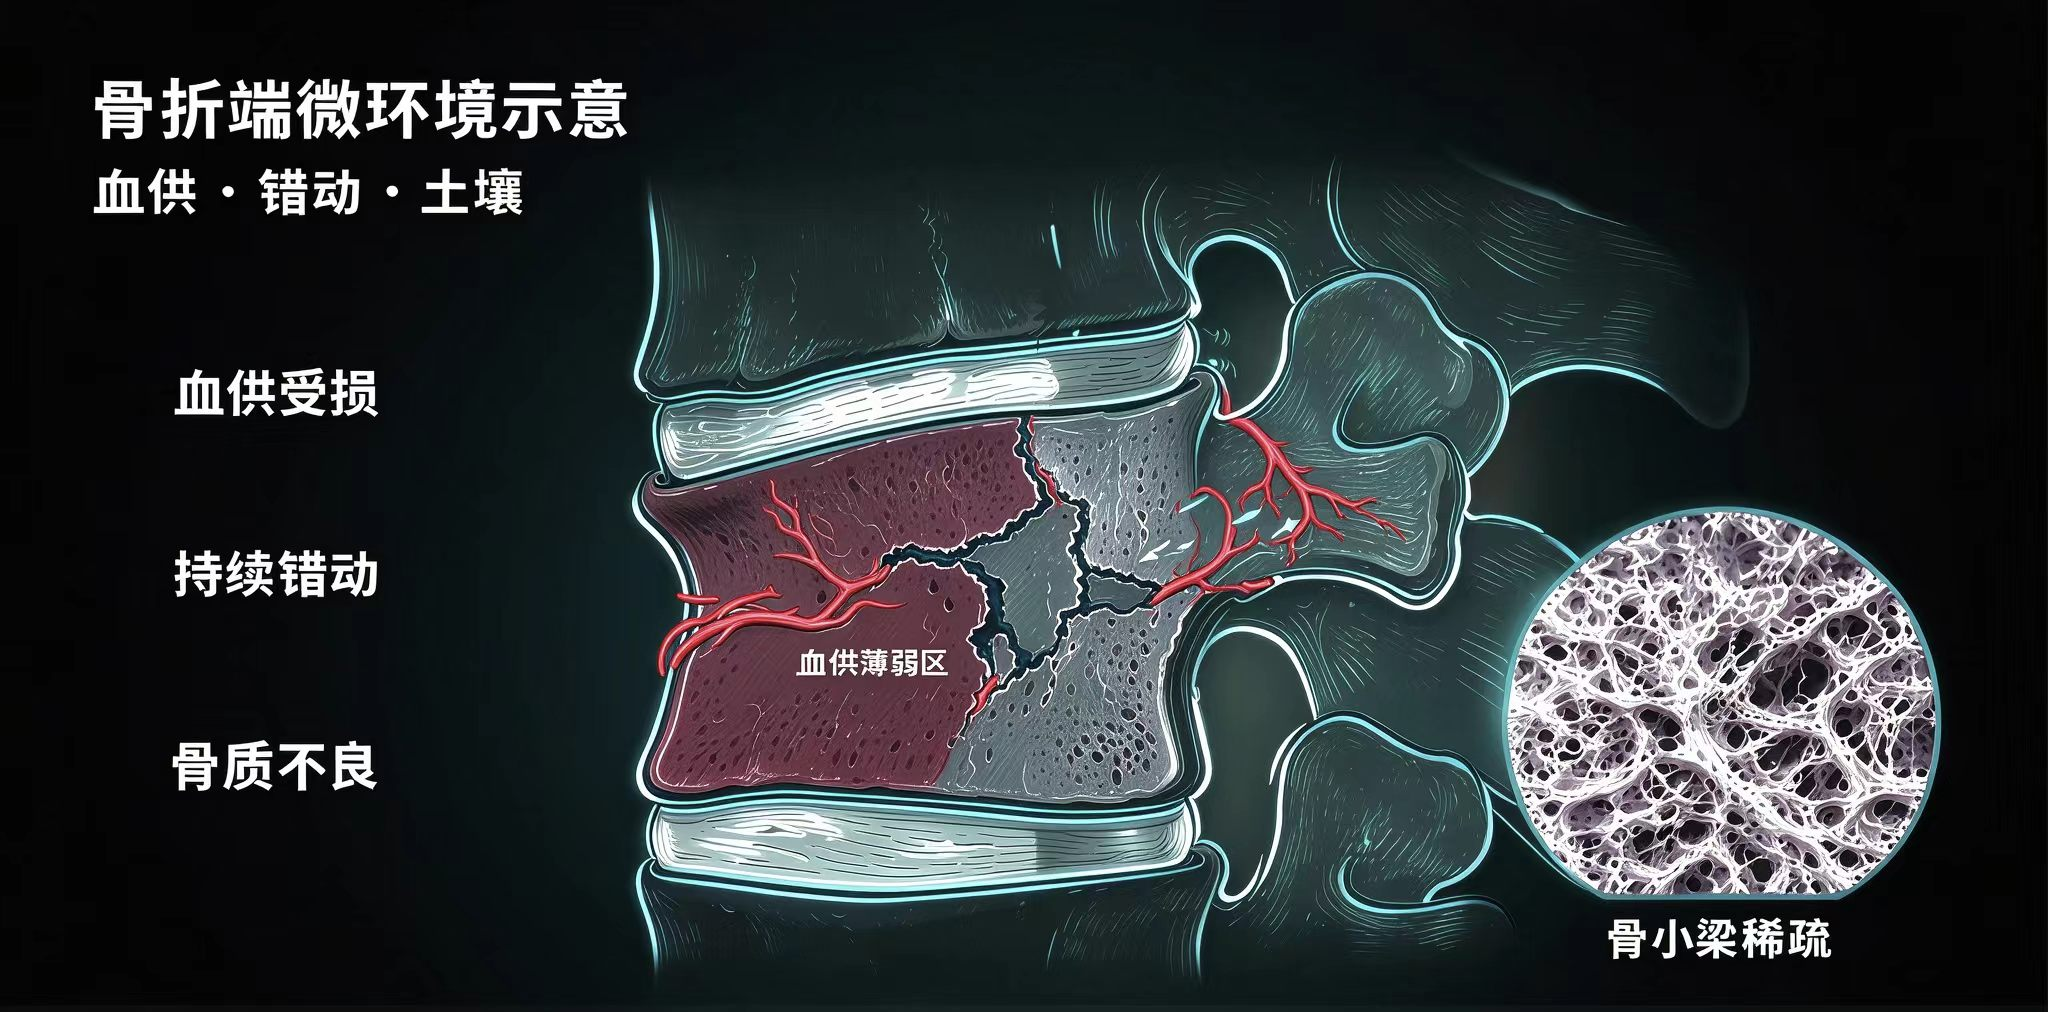
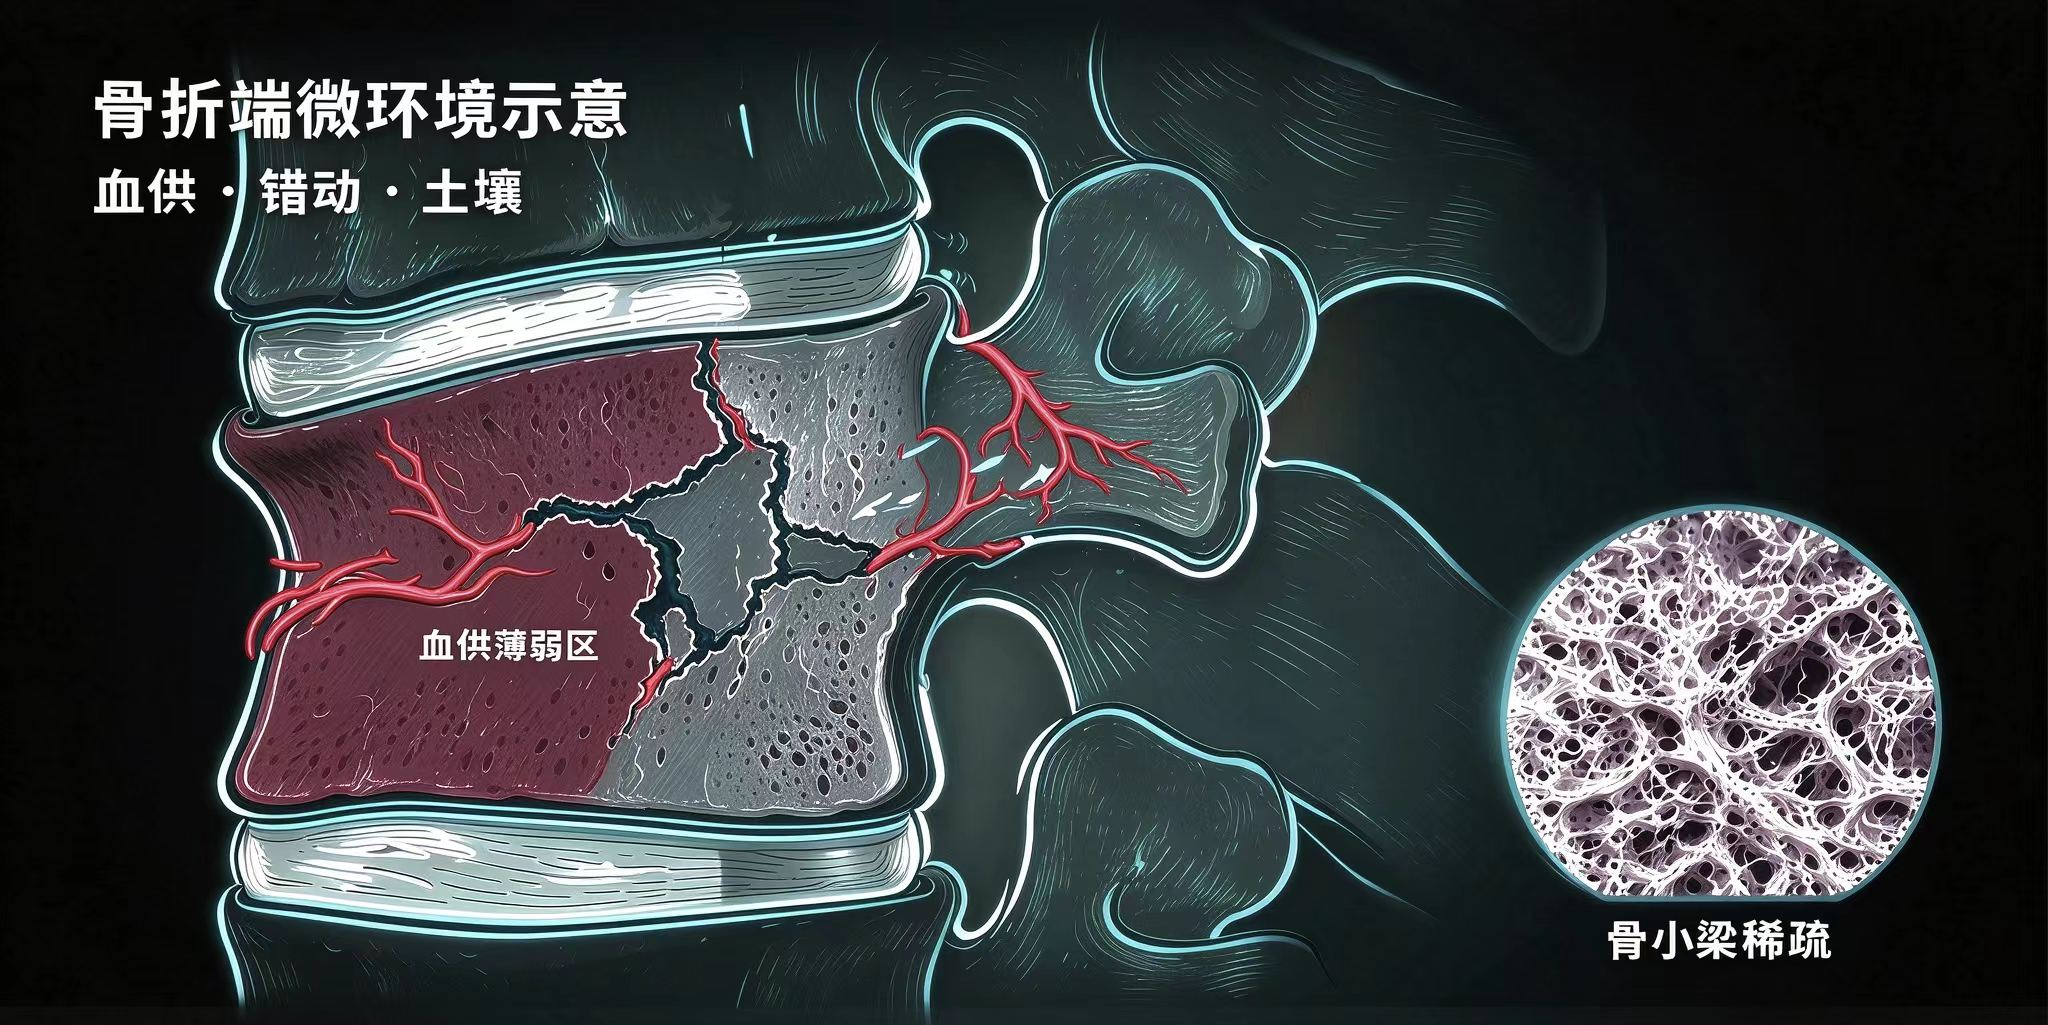
结局章换微环境图，标注 AI 辅助生成，三点补充细节

diff --git a/ch4.html b/ch4.html
@@ -89,15 +89,15 @@
         <div class="kicker">01 / 机制</div>
         <h2>三个层面同时出问题</h2>
         <figure class="fig me">
-          <img src="assets/microenv.jpg" alt="骨折端微环境示意图：一侧血供受损发暗，另一侧骨质稀疏、骨小梁断裂，标注“血供薄弱区”与“骨小梁稀疏”">
-          <figcaption>骨折端微环境示意 · 血供 ／ 错动 ／ 骨质量（示意，非真实影像）</figcaption>
+          <img src="assets/microenv.jpg" alt="AI 辅助生成的骨折端微环境示意图：一侧为血供受损的暗红区域（血供薄弱区），另一侧骨小梁稀疏、板层结构断裂，右下角圆窗显示疏松的骨小梁网络">
+          <figcaption>AI 辅助生成的骨折端微环境示意 · 血供 ／ 错动 ／ 骨质量（示意，非真实影像）</figcaption>
         </figure>
 
         <div class="cause">
           <div class="cause-list">
-            <div class="ci"><i>01</i><div><b>血供受损</b><span>断端血管被破坏，负责修复的细胞到不了现场</span></div></div>
-            <div class="ci"><i>02</i><div><b>持续错动</b><span>椎体每天都在承重，断端反复被掰开</span></div></div>
-            <div class="ci"><i>03</i><div><b>骨质不良</b><span>骨质疏松没治，骨小梁稀疏松脆、撑不住</span></div></div>
+            <div class="ci"><i>01</i><div><b>血供受损</b><span>骨折端周围的小血管与骨膜血管被撕断，断端之间形成一个暗红的“血供薄弱区”。负责成骨的间充质干细胞、成骨前体细胞都靠血流运来，血管到不了，修复队伍就上不了场；缺血的骨组织还会坏死，占据本应长新骨的缝隙。</span></div></div>
+            <div class="ci"><i>02</i><div><b>持续错动</b><span>椎体是承重结构，坐起、翻身、走路都在给断端加载。缝隙两侧的骨面反复微动，纤维软骨刚长上就被扯开，始终过渡不到骨性愈合，最后形成一个“假关节”——这也是为什么单纯长期卧床并不解决问题，支具保护与早期适度活动要平衡。</span></div></div>
+            <div class="ci"><i>03</i><div><b>骨质不良</b><span>骨质疏松没治疗时，骨小梁变细、断裂、孔隙变大（右下圆窗），成骨的“材料”和“脚手架”都不够；若还合并钙与维生素 D 不足、蛋白质摄入低、长期用激素，愈合的土壤就一直没改善。所以治不愈合，同时要治骨质疏松。</span></div></div>
           </div>
           <svg class="cause-brace" viewBox="0 0 46 240" preserveAspectRatio="none" aria-hidden="true">
             <path d="M10 8 C 36 8, 36 74, 36 112 C 36 117, 40 120, 45 120 C 40 120, 36 123, 36 128 C 36 166, 36 232, 10 232" />
